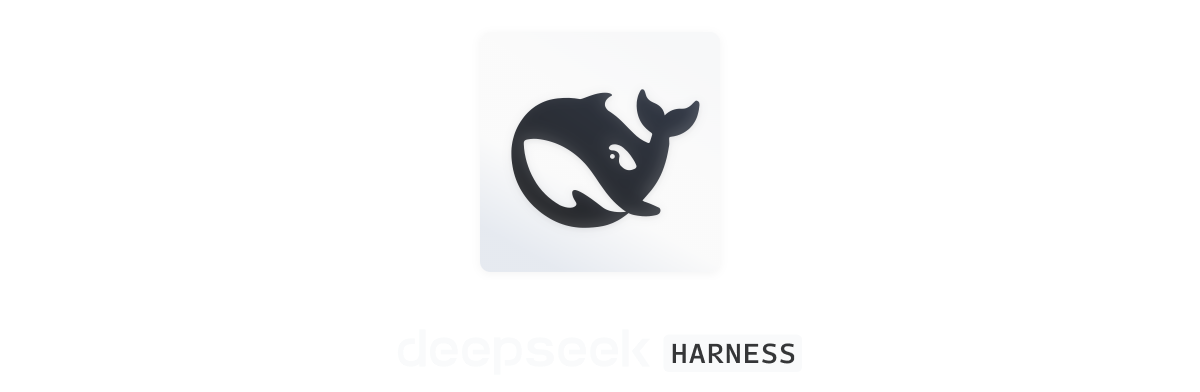
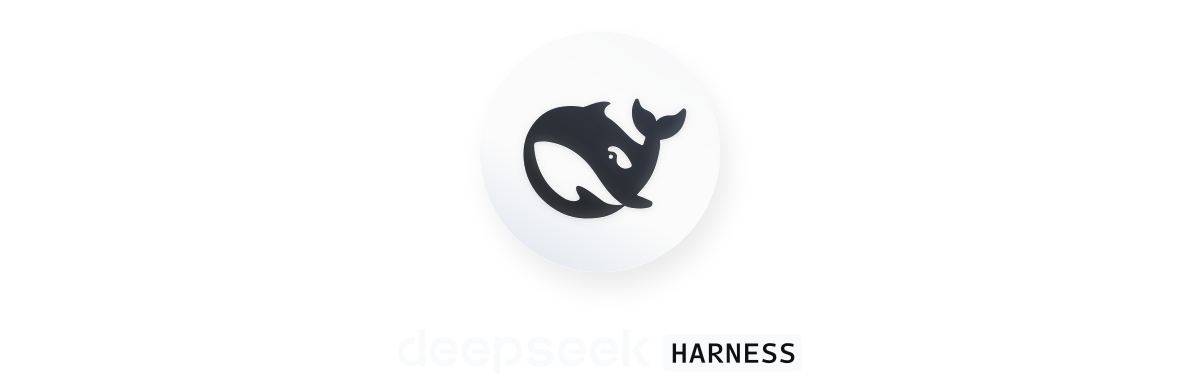
fix(desktop): sharpen installer brand art and progress-page scaling
Re-render the four installer brand banners from the vector sources:
the badge follows the Figma spec (three-stop gradients, layered drop
shadows) and the whale no longer inherits shape-rendering=crispEdges,
which disabled anti-aliasing and left jagged edges. The wordmark now
reaches its design color instead of a soft #353638.

Draw the progress-page brand with high-quality bicubic interpolation
and half-pixel offset so the always-2x bitmap stays crisp when scaled
down at 96 DPI.

Changed region(s): [[0.4008, 0.2143, 0.5858, 0.5816], [0.555, 0.8571, 0.6783, 0.949], [0.4008, 0.6122, 0.4317, 0.7041]]

diff --git a/apps/desktop/installer/window-frame.cpp b/apps/desktop/installer/window-frame.cpp
@@ -108,6 +108,8 @@ static LRESULT CALLBACK ProgressProc(HWND window, UINT message, WPARAM wparam, L
             graphics.ScaleTransform(page->dpi / 96.0f, page->dpi / 96.0f);
             graphics.Clear(page->dark ? Color(255, 21, 21, 23) : Color(255, 255, 255, 255));
             graphics.SetSmoothingMode(SmoothingModeAntiAlias);
+            graphics.SetInterpolationMode(InterpolationModeHighQualityBicubic);
+            graphics.SetPixelOffsetMode(PixelOffsetModeHalf);
             graphics.DrawImage(page->brand, Rect(0, 174, 600, 196));
             const int stage = static_cast<int>(reinterpret_cast<INT_PTR>(GetPropW(GetParent(window), L"HarnessInstaller.Stage")));
             const double fraction = reinterpret_cast<UINT_PTR>(GetPropW(GetParent(window), L"HarnessInstaller.ExtractProgress")) / 100.0;
